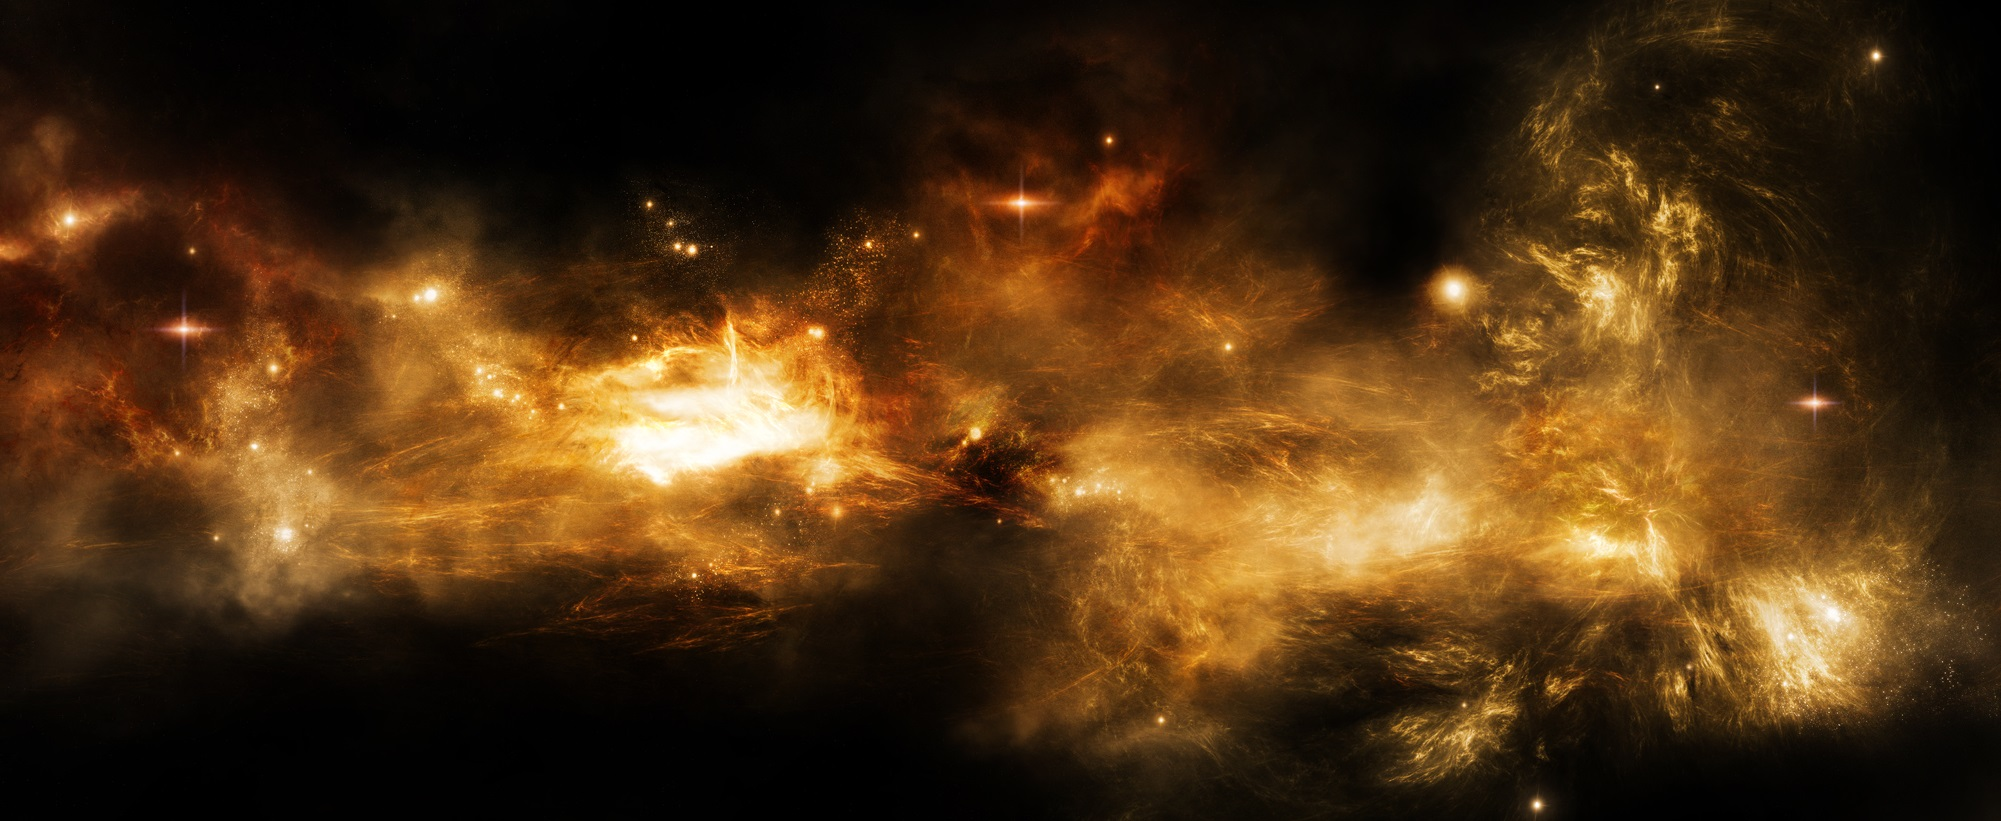
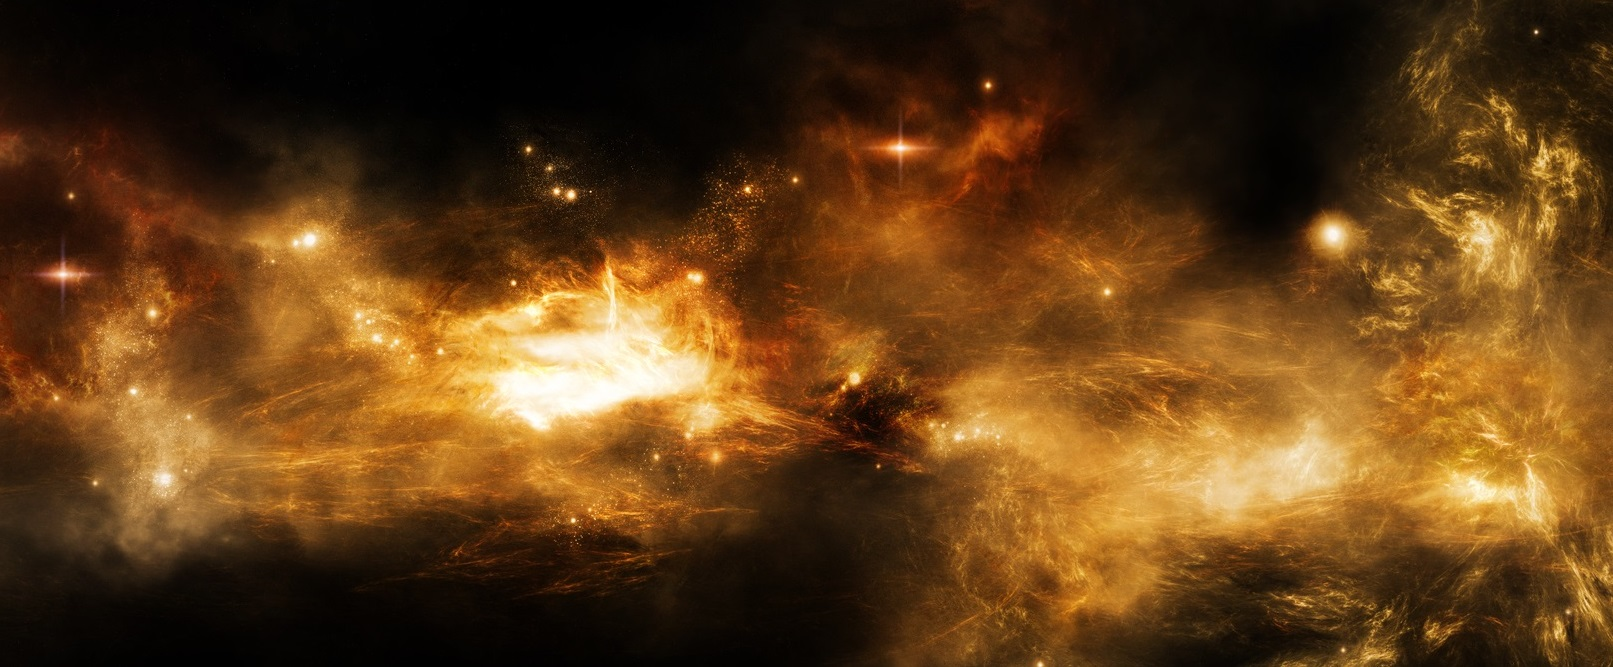
VictorL - Update Home background

diff --git a/css/base.css b/css/base.css
@@ -190,14 +190,14 @@ div#nex-menu {
   white-space: nowrap; }
 
 .home-background {
-  background: url(/images/nebula_bg.jpg) no-repeat center center fixed;
+  background: url(/assets/img/background_0.jpg) no-repeat center center fixed;
   -webkit-background-size: cover;
   -moz-background-size: cover;
   -o-background-size: cover;
   background-size: cover;
   min-height: 100%;
   width: 100%;
-  height: 1080px; }
+  height: 100%; }
 
 .home-title-quote {
   border-left: none;

diff --git a/css/base.scss b/css/base.scss
@@ -267,7 +267,7 @@
 	}
 
 	.home-background {
-		background: url(/images/nebula_bg.jpg) no-repeat center center fixed; 
+		background: url(/assets/img/background_0.jpg) no-repeat center center fixed; 
 		-webkit-background-size: cover;
 		-moz-background-size: cover;
 		-o-background-size: cover;
@@ -275,7 +275,7 @@
 
 		min-height: 100%;
 		width: 100%;
-		height: 1080px;
+		height: 100%;
 	}
 
 	.home-title-quote {
